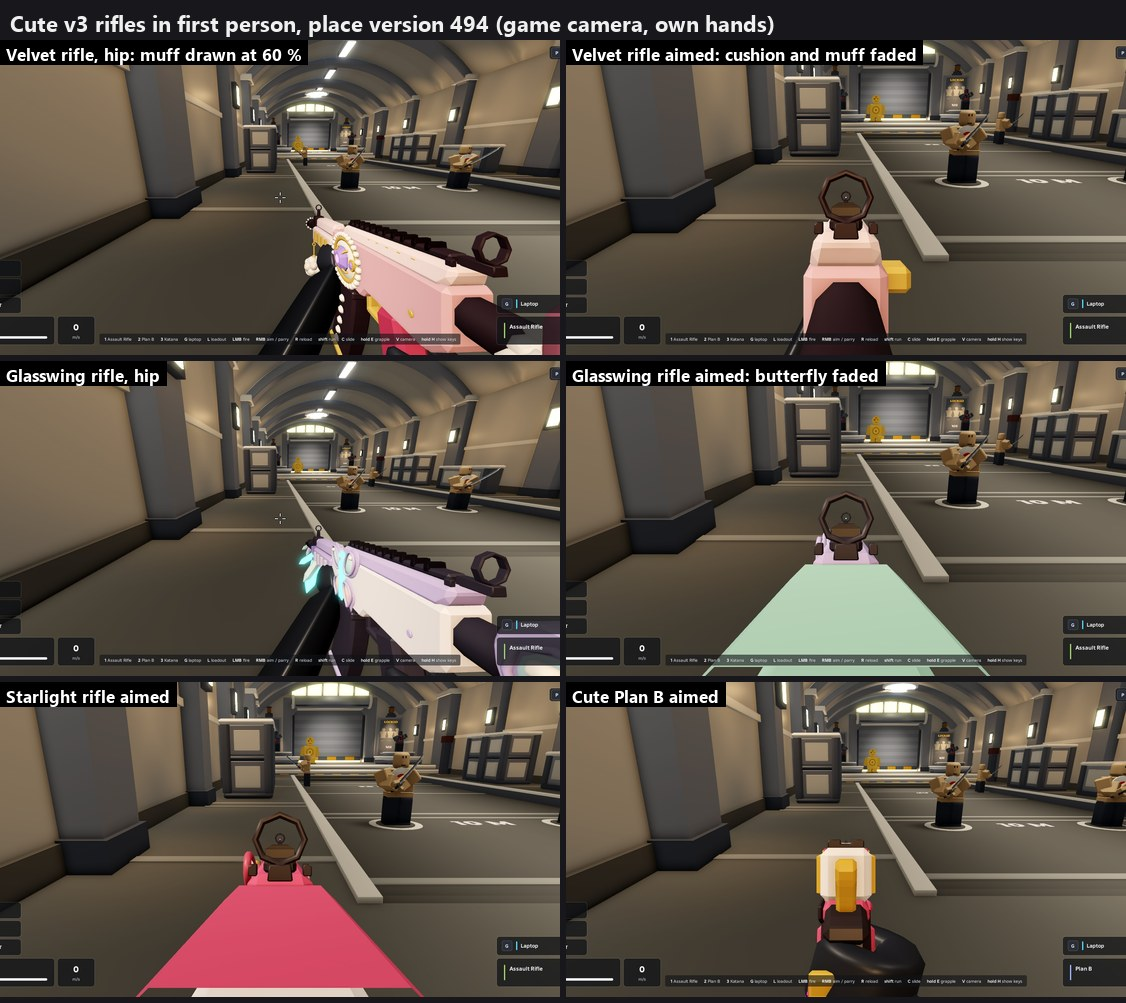
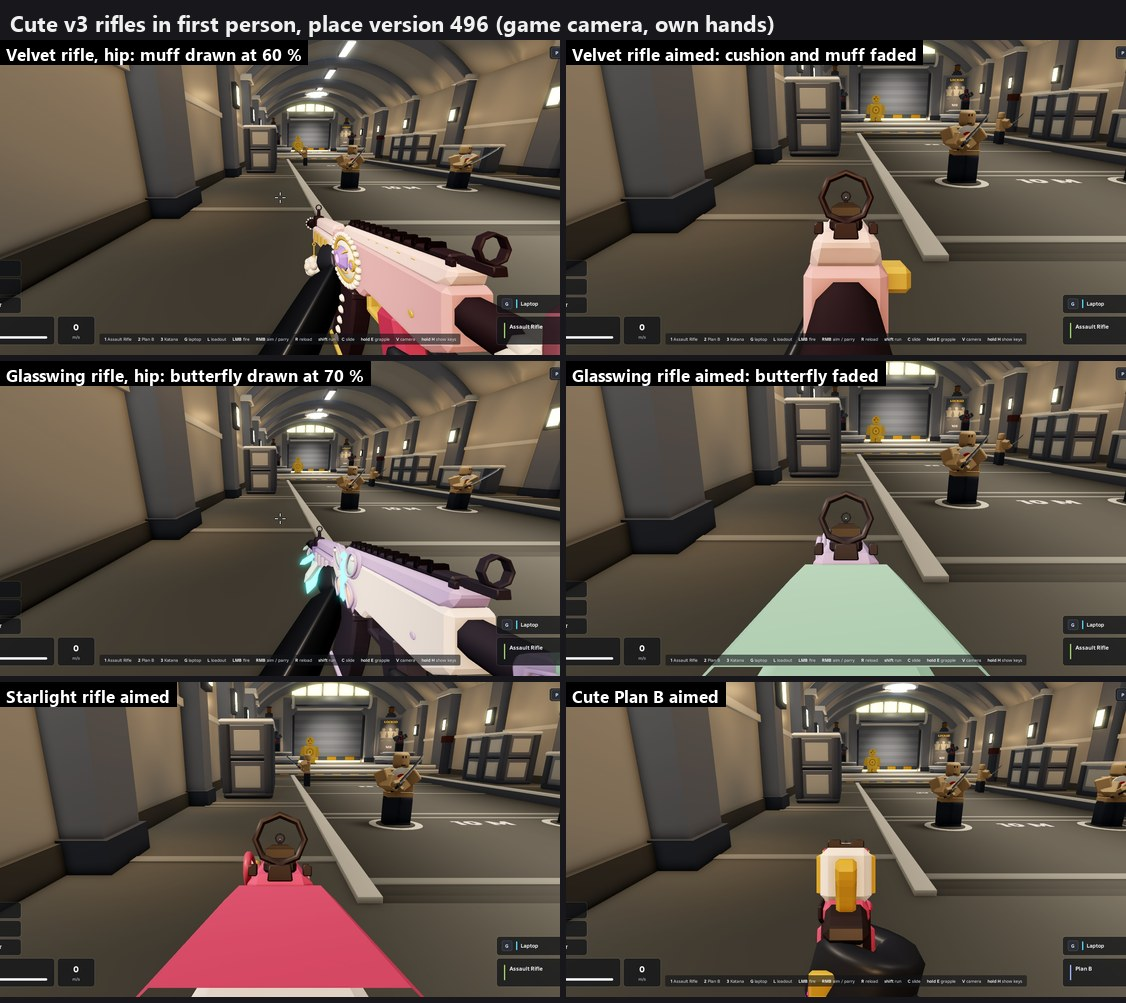
Roblox first person: the Glasswing's stock butterfly drawn smaller at the hip (place version 496)
The butterfly covered 1.8 % of the screen at the hip and 3.2 % with the gun
swaying; it is drawn at 70 % about its front edge in your own view only (0.7 to
1.3 %). The Starlight's stock star and the Sweet Shop's wrapper fan are never on
screen at the hip, and the Velvet's cushion is the plain stock's size there, so
they get no row. Sheet gun-hold/ads-6.jpg updated.

Changed region(s): [[0.2487, 0.5254, 0.4973, 0.68], [0.1243, 0.34, 0.3419, 0.4018], [0.2487, 0.6181, 0.2798, 0.6491]]

diff --git a/roblox/docs/GUN-PAINT.md b/roblox/docs/GUN-PAINT.md
@@ -322,16 +322,19 @@ The Half a Shotgun's line ran inside its hinge.
   wing's scaled pieces below 68 % of the screen's height.
 - Sheet: `gun-hold/ads-5.jpg`, every gun aimed in Play (both scopes too), the Ducky Belt Sander before and now, and the
   Seraph rifle at the console. Not pictured: skins aimed other than the Ducky Belt Sander (measured only).
-- Cute v3 concepts (place version 494; gun-models: big signature pieces sit by the aimed eye). Measured on the real
-  triangles, aimed and at the hip:
+- Cute v3 concepts (place versions 494 and 496; gun-models: big signature pieces sit by the aimed eye). Measured on
+  the real triangles, aimed and at the hip:
   - Velvet rifle: its cushion stock and muff filled the whole bottom aimed (27.6 % of the screen against the
     plain rifle's 13.3). They fade while aiming (`hide`), leaving 7.2 %. At the hip the muff is drawn at 60 % about
     its foot (`near`, pivot (0, 0, 0.283)): 3.7 % of the screen down to 0.8 %, a sliver in the bottom-right corner.
   - Glasswing rifle: the stock butterfly covered 13 % aimed. It fades while aiming, so the rifle covers 13.3 %, the
-    same as the plain one; at the hip it is 2.5 %, in the corner.
-  - Starlight and Sweet Shop rifles and the four cute Plan Bs measure within a point of their gun aimed and at the
-    hip: no rows.
-  - Sheet: `gun-hold/ads-6.jpg` (Velvet hip and aimed, Glasswing hip and aimed, Starlight and a cute Plan B aimed).
+    same as the plain one. At the hip it covered 1.8 %, and 3.2 % with the gun swaying; it is drawn at 70 % about its
+    front edge (pivot (0, 0, 0.27)), 0.7 to 1.3 %.
+  - The Starlight's stock star and the Sweet Shop's wrapper fan are never on screen at the hip (behind the camera in
+    every bob and sway pose) and the Velvet's cushion is the plain stock's size there, so they need no `near` row.
+    Starlight and Sweet Shop and the four cute Plan Bs measure within a point of their gun aimed and at the hip.
+  - Sheet: `gun-hold/ads-6.jpg` (place version 496: Velvet hip and aimed, Glasswing hip and aimed, Starlight and a cute
+    Plan B aimed).
 
 Checked in Play (sheets `gun-hold/ads-1.jpg` to `ads-3.jpg`, the game camera, the owner's own hands through
 JankTest): every weapon at hip and aimed, both scopes, the Seraph rifle and Hat Trick, and the Infernal Plan B.
